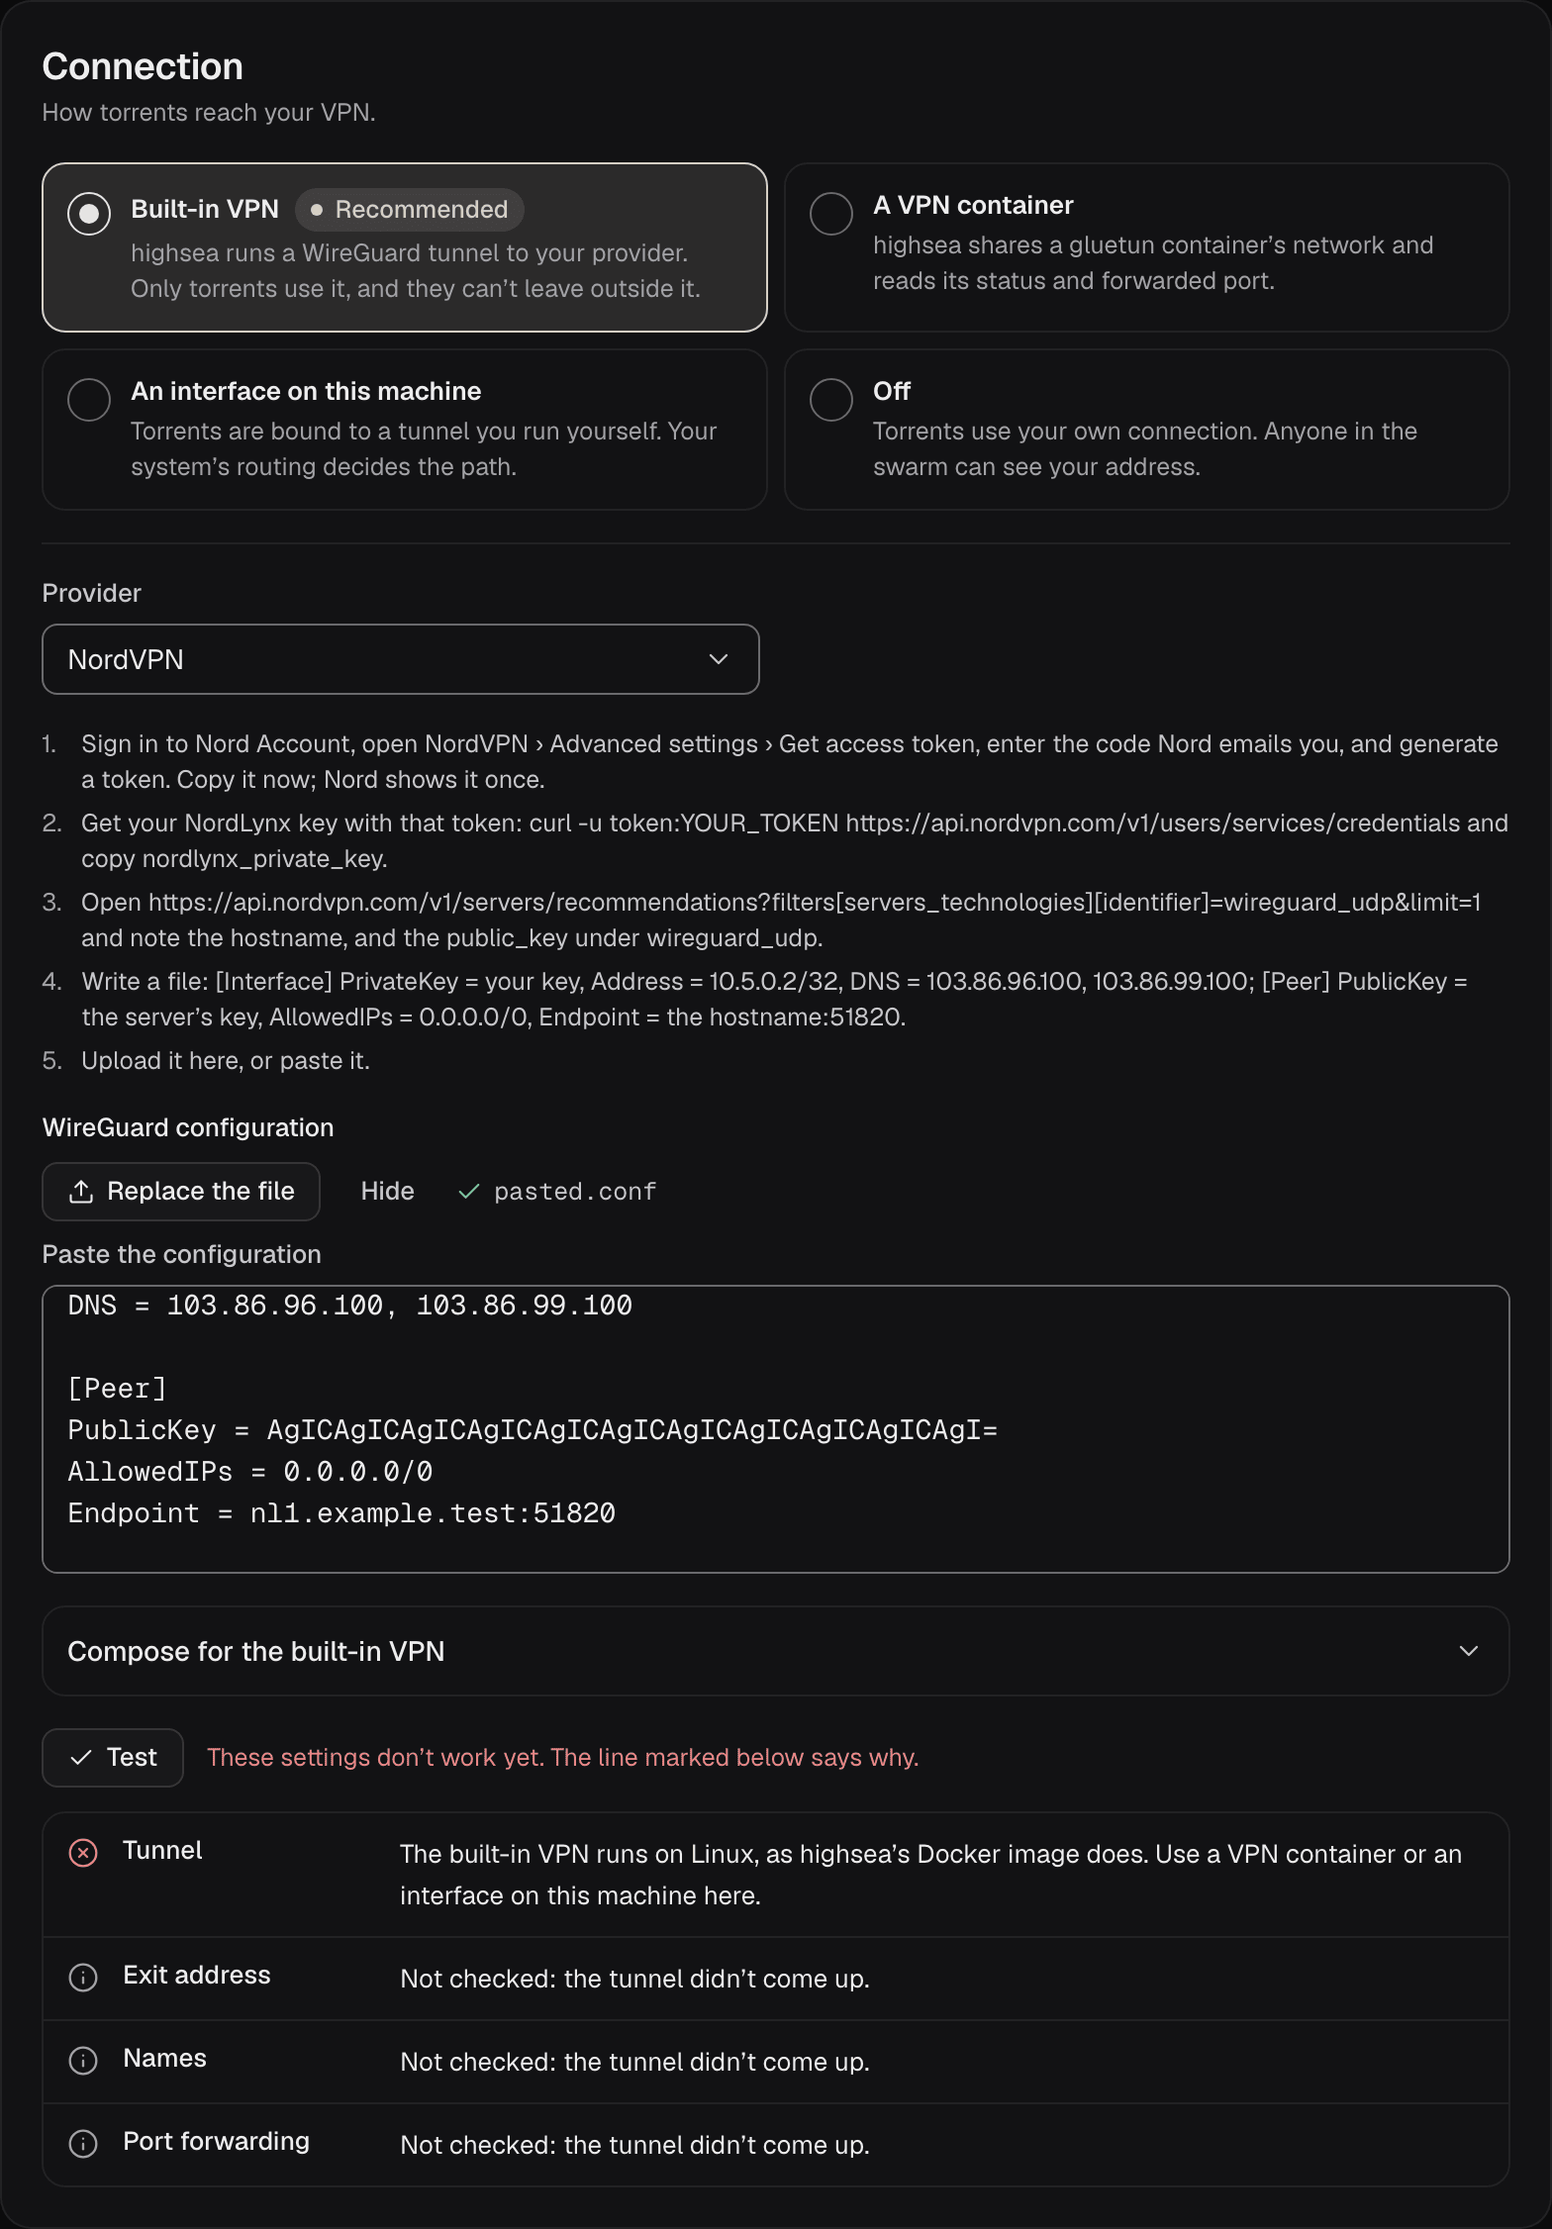
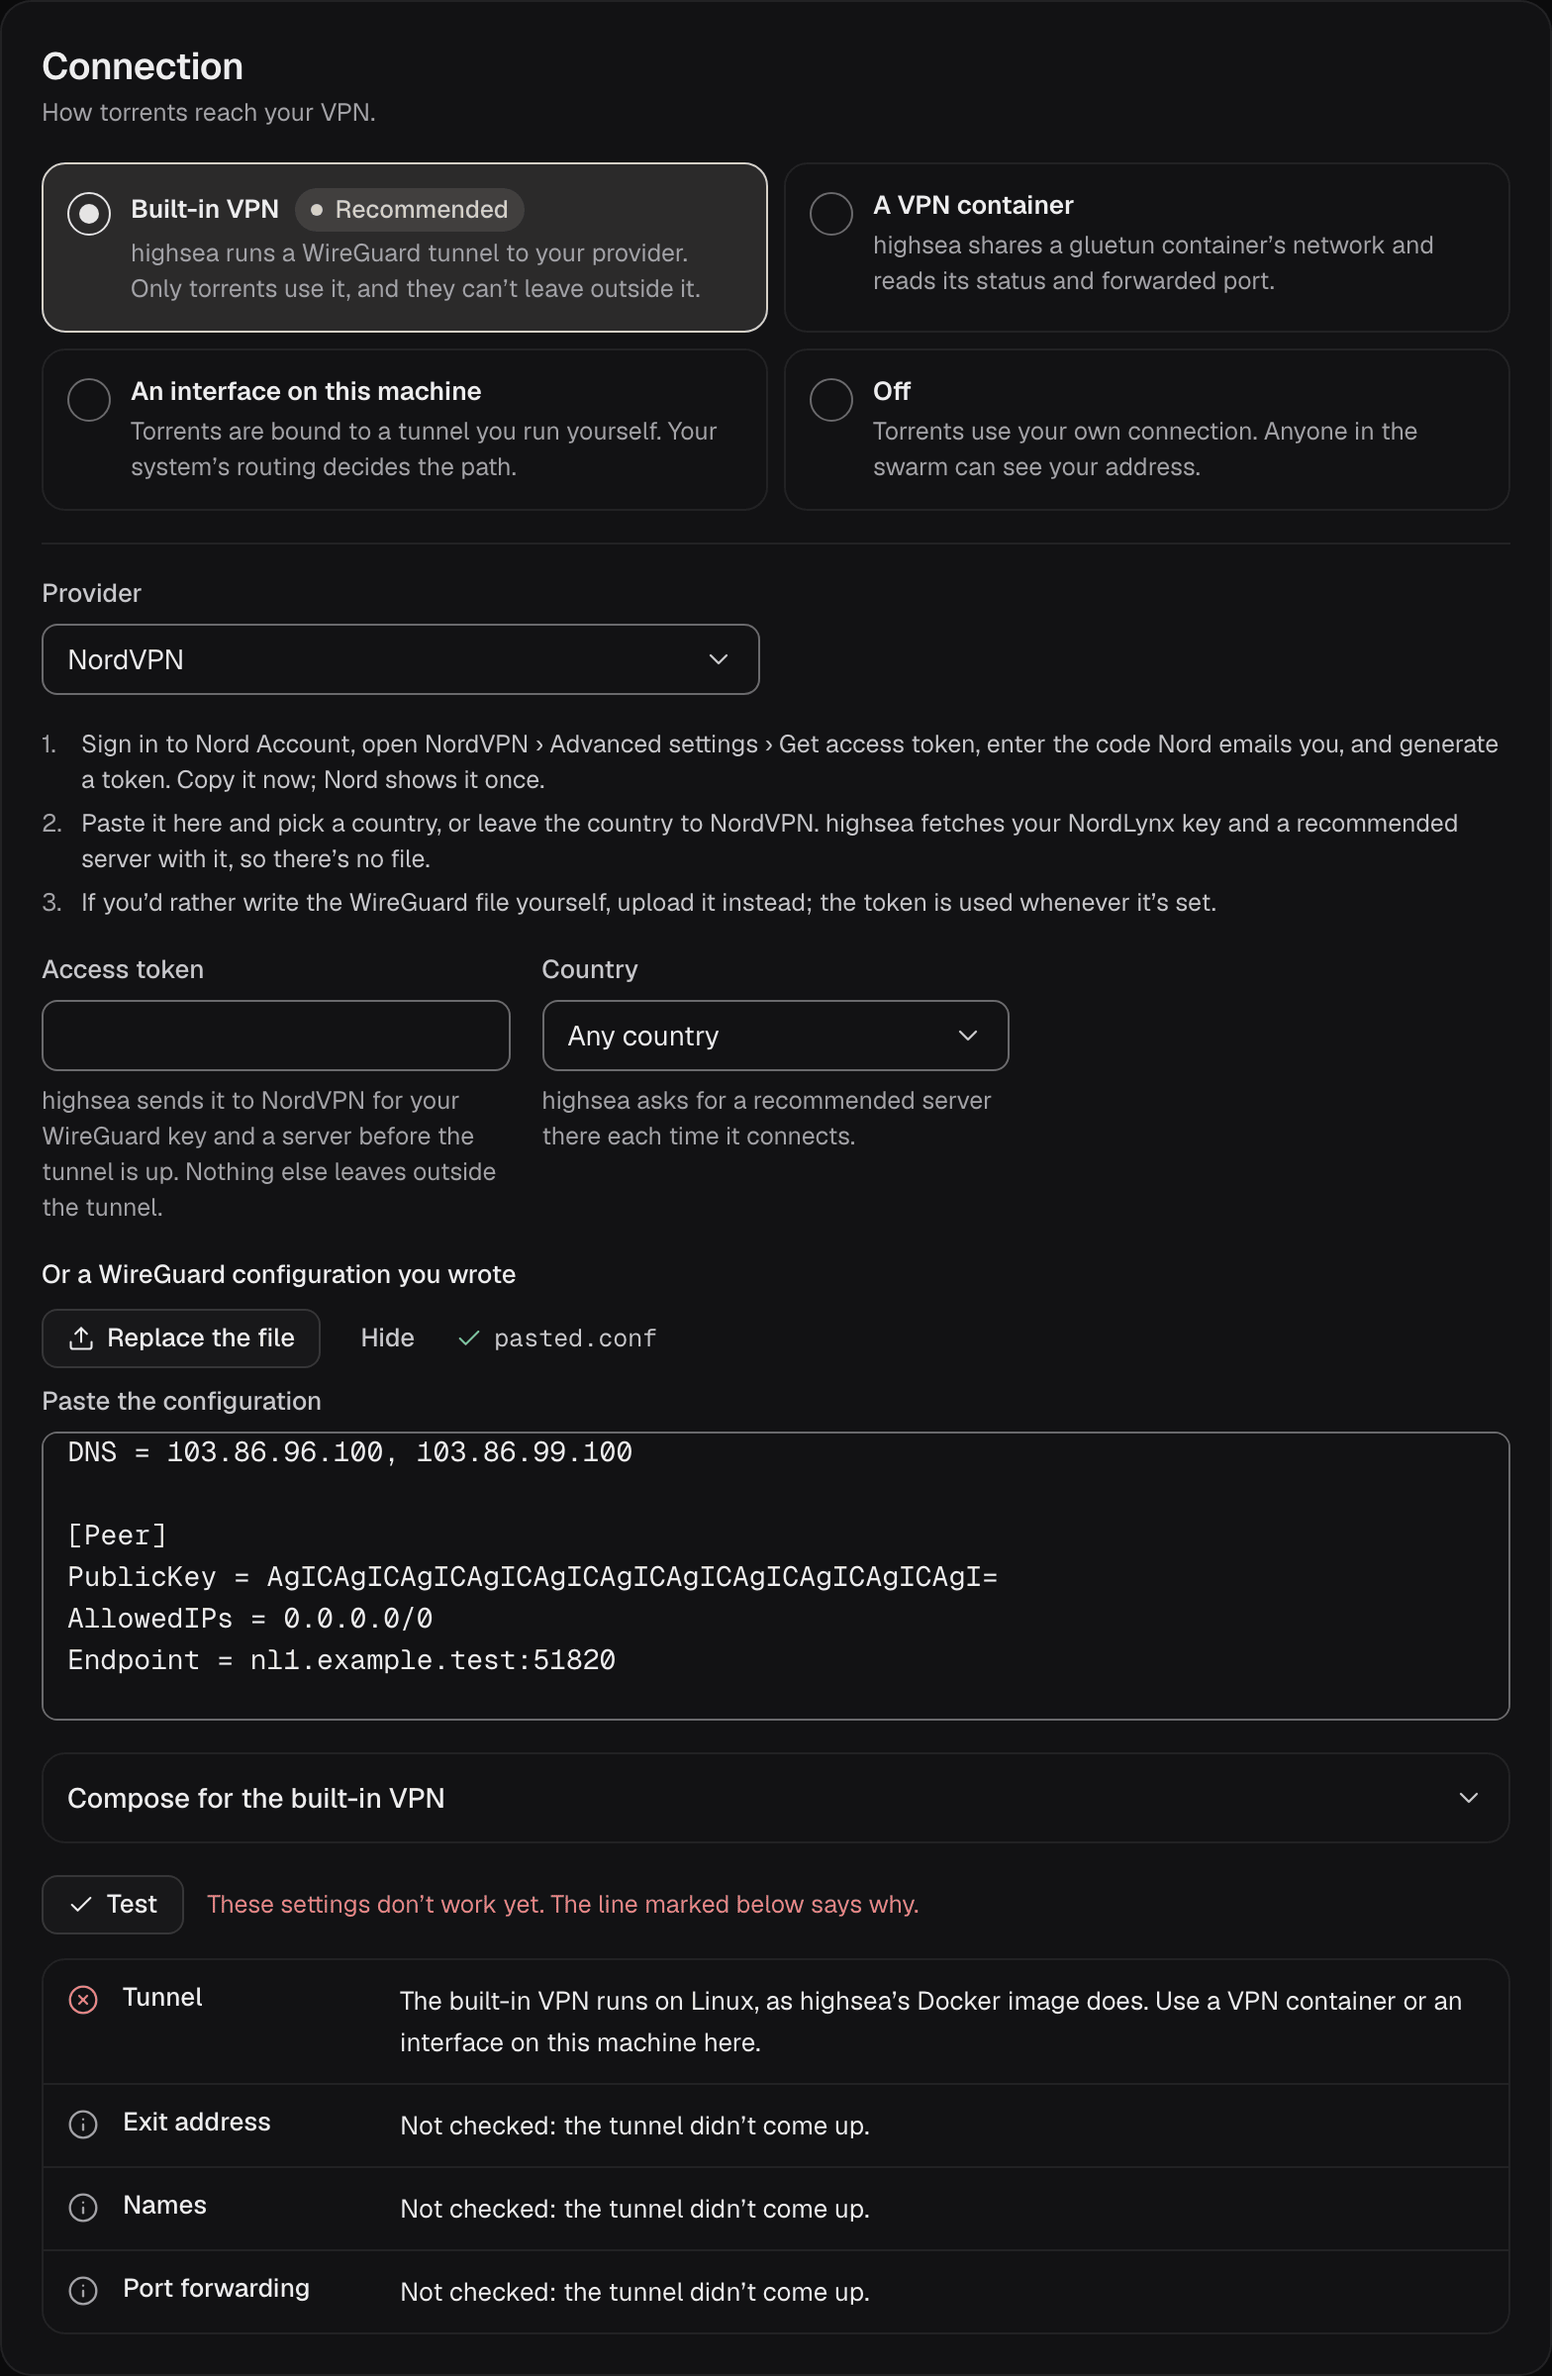
Guide NordVPN by its access token
- The built-in VPN guide's NordVPN section gives the token steps, what
  leaves before the tunnel is up, and the reconnect to a fresh server
- The hand-written WireGuard file stays as the fallback, under its own
  heading
- A new shot of the NordVPN form; Test's shot retaken with the new fields
- The country list's first choice reads Any country

diff --git a/scripts/docs-shots/areas/settings-vpn.ts b/scripts/docs-shots/areas/settings-vpn.ts
@@ -59,6 +59,17 @@ export default {
       height: 1400,
     },
     {
+      // the form only: nothing is saved or tested, so no token leaves the machine
+      name: 'connects-nordvpn',
+      path: '/settings/vpn',
+      act: async (p) => {
+        await provider('NordVPN')(p)
+        await p.getByText('Access token', { exact: true }).first().waitFor()
+      },
+      crop: connection,
+      height: 1400,
+    },
+    {
       name: 'forwarded-port',
       path: '/settings/vpn',
       act: provider('AirVPN'),
@@ -67,7 +78,8 @@ export default {
     },
     {
       // Test on the shot's machine: the seeded server isn't on Linux, so the tunnel line says so
-      // before any command runs or anything leaves the machine
+      // before any command runs or anything leaves the machine. A pasted file, not a token: a
+      // token would be sent to NordVPN before the tunnel is tried
       name: 'test',
       path: '/settings/vpn',
       act: async (p) => {

diff --git a/packages/admin/test/vpn-screen.test.tsx b/packages/admin/test/vpn-screen.test.tsx
@@ -287,7 +287,7 @@ describe('Settings › VPN', () => {
     expect(page.getByText('Generate an access token in Nord Account.')).toBeTruthy()
     // the hint says what leaves before the tunnel is up
     expect(page.getByText(/sends it to NordVPN for your WireGuard key and a server/)).toBeTruthy()
-    expect(page.getByText('Any: NordVPN recommends one')).toBeTruthy()
+    expect(page.getByText('Any country')).toBeTruthy()
     // a file written by hand stays as the fallback
     expect(page.getByText('Or a WireGuard configuration you wrote')).toBeTruthy()
 

diff --git a/packages/admin/src/vpn-messages.ts b/packages/admin/src/vpn-messages.ts
@@ -84,7 +84,7 @@ export const vpn = defineMessages({
     'highsea sends it to {provider} for your WireGuard key and a server before the tunnel is up. Nothing else leaves outside the tunnel.',
   country: 'Country',
   countryHint: 'highsea asks for a recommended server there each time it connects.',
-  countryAny: 'Any: {provider} recommends one',
+  countryAny: 'Any country',
   configInstead: 'Or a WireGuard configuration you wrote',
   config: 'WireGuard configuration',
   configReplace: 'Replace the file',

diff --git a/packages/admin/src/vpn.tsx b/packages/admin/src/vpn.tsx
@@ -816,7 +816,7 @@ function BuiltIn({
                         value={v.tokenCountry}
                         onValueChange={(tokenCountry) => set({ tokenCountry })}
                         options={[
-                          { value: '', label: t('countryAny', { provider: provider.name }) },
+                          { value: '', label: t('countryAny') },
                           ...(provider.regions ?? []).map((r) => ({ value: r, label: r })),
                         ]}
                       />
